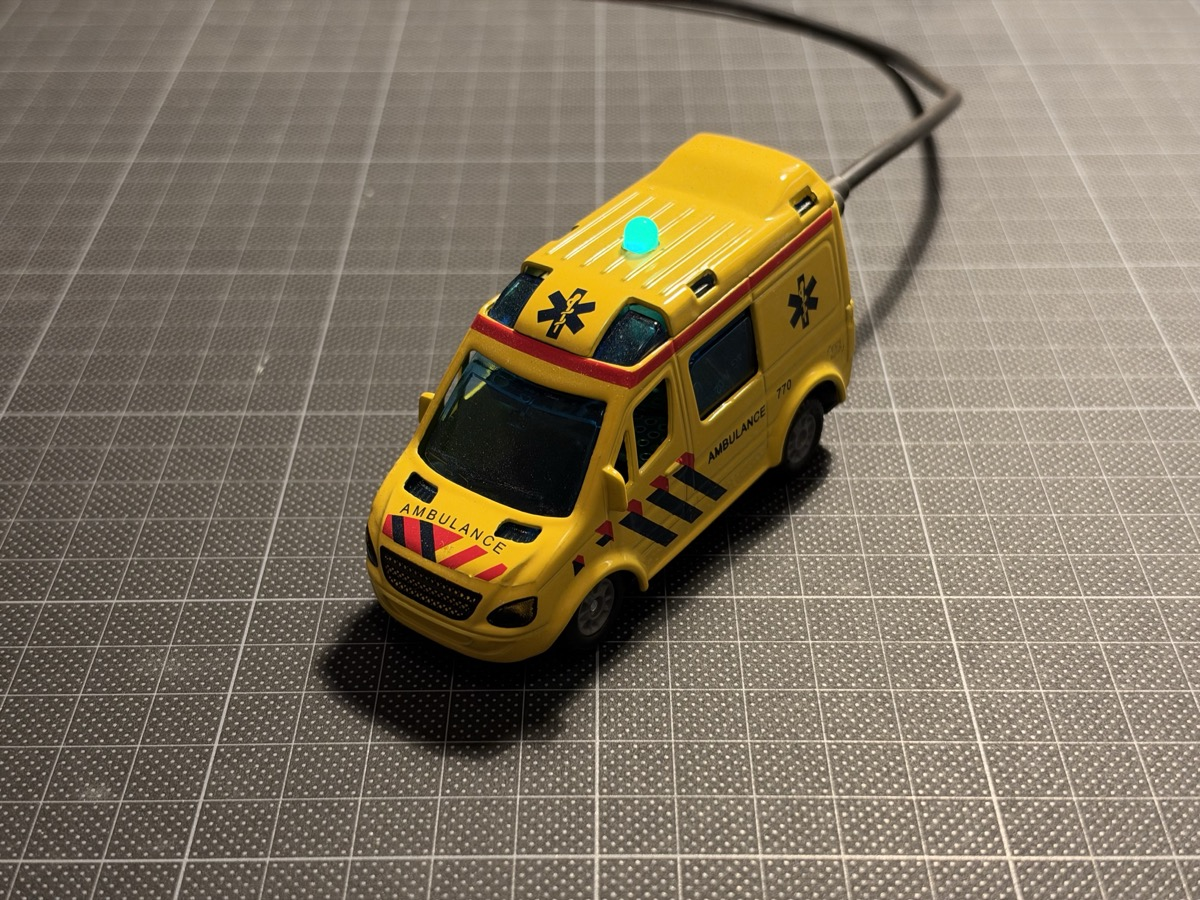
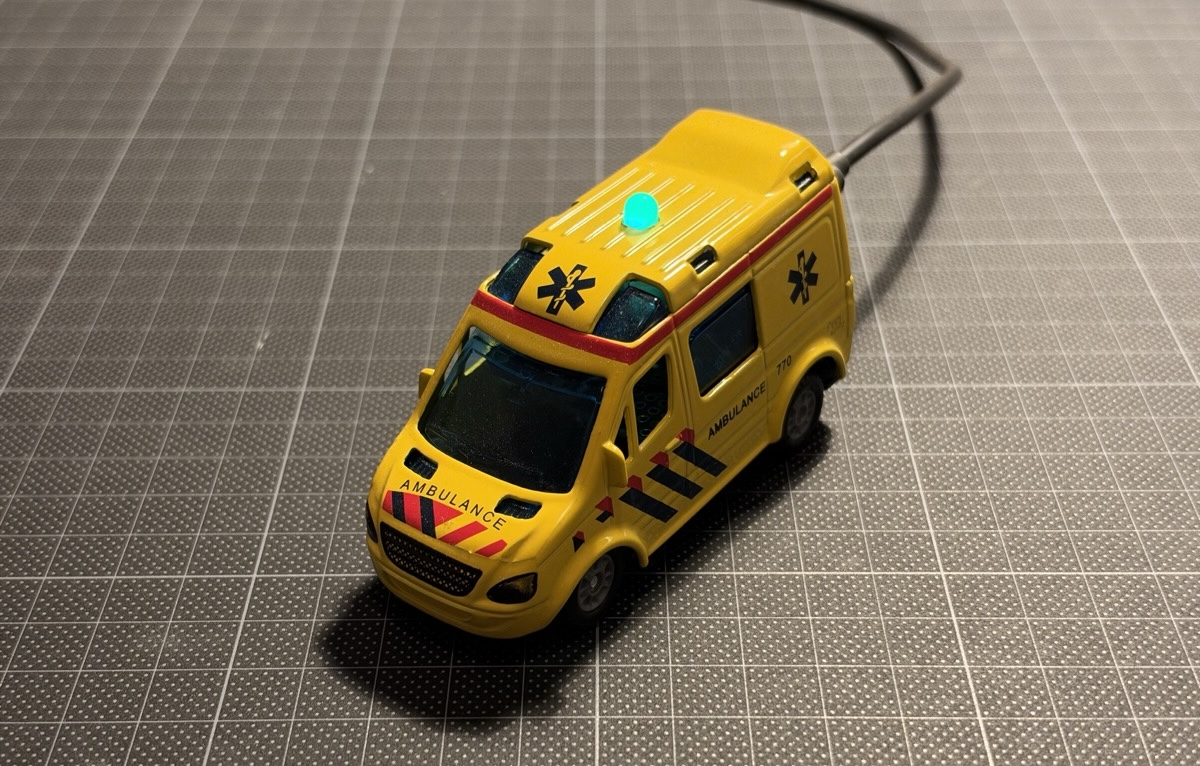
style: remove width attribute from image tag

diff --git a/README.md b/README.md
@@ -9,7 +9,7 @@ event database are streamed to a small self-hosted VPS archive (in [`cloud/`](cl
 powers [sirenes.live](https://sirenes.live). The archive is hosted on a VPS running [k3s-deploy](https://github.com/woudsma/k3s-deploy).
 
 <p align="center">
-  <img src="docs/ambulance.jpg" alt="The siren detector: an ESP32 inside a toy ambulance, roof LED glowing" width="600">
+  <img src="docs/ambulance.jpg" alt="The siren detector: an ESP32 inside a toy ambulance, roof LED glowing">
 </p>
 
 ## Features
